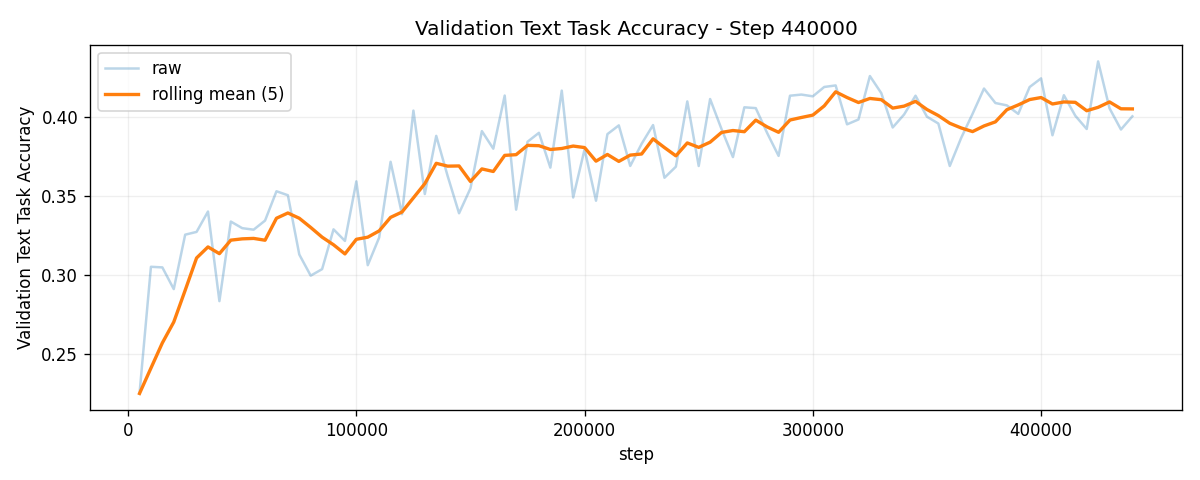
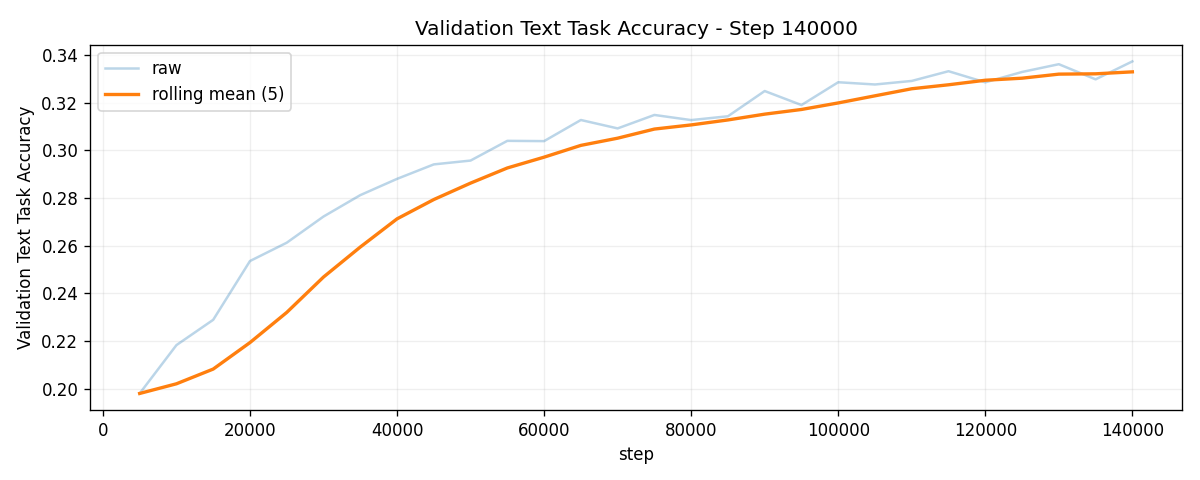
Refresh README assets with step 140000 outputs

diff --git a/README.md b/README.md
@@ -272,20 +272,20 @@ The reported CE is a weighted multimodal objective, not a plain text perplexity.
 | :---: | :---: |
 | ![Train Loss](assets/train_loss.png) | ![Validation Loss](assets/val_loss.png) |
 
-Latest completed eval at step 440,000:
+Latest completed eval at step 140,000:
 
 | Metric | Value |
 | :--- | ---: |
-| Train weighted CE | 34.74 |
-| Validation weighted CE | 52.75 |
-| Best validation weighted CE so far | 44.26 at step 335,000 |
-| Decision accuracy | 98.82% |
-| Listen accuracy | 99.10% |
-| User-end accuracy | 63.57% |
-| Model-end accuracy | 63.89% |
-| Text token accuracy | 39.62% |
-| Audio token accuracy | 35.51% |
-| Audio codebook exact accuracy | 1.93% |
+| Train weighted CE | 3.42 |
+| Validation weighted CE | 3.83 |
+| Best validation weighted CE so far | 3.83 at step 140,000 |
+| Decision accuracy | 94.25% |
+| Listen accuracy | 94.51% |
+| User-end accuracy | 75.13% |
+| Model-end accuracy | 75.48% |
+| Text token accuracy | 34.55% |
+| Audio token accuracy | 36.56% |
+| Audio codebook exact accuracy | 0.04% |
 
 ### Protocol and Modality
 
@@ -307,7 +307,7 @@ Latest completed eval at step 440,000:
 
 ## Output Examples
 
-These examples are from the step 440,000 runtime loop. They show protocol control behavior rather than finished assistant quality.
+These examples are from the step 140,000 runtime loop. They show protocol control behavior rather than finished assistant quality.
 
 ### Identity Prompt
 
